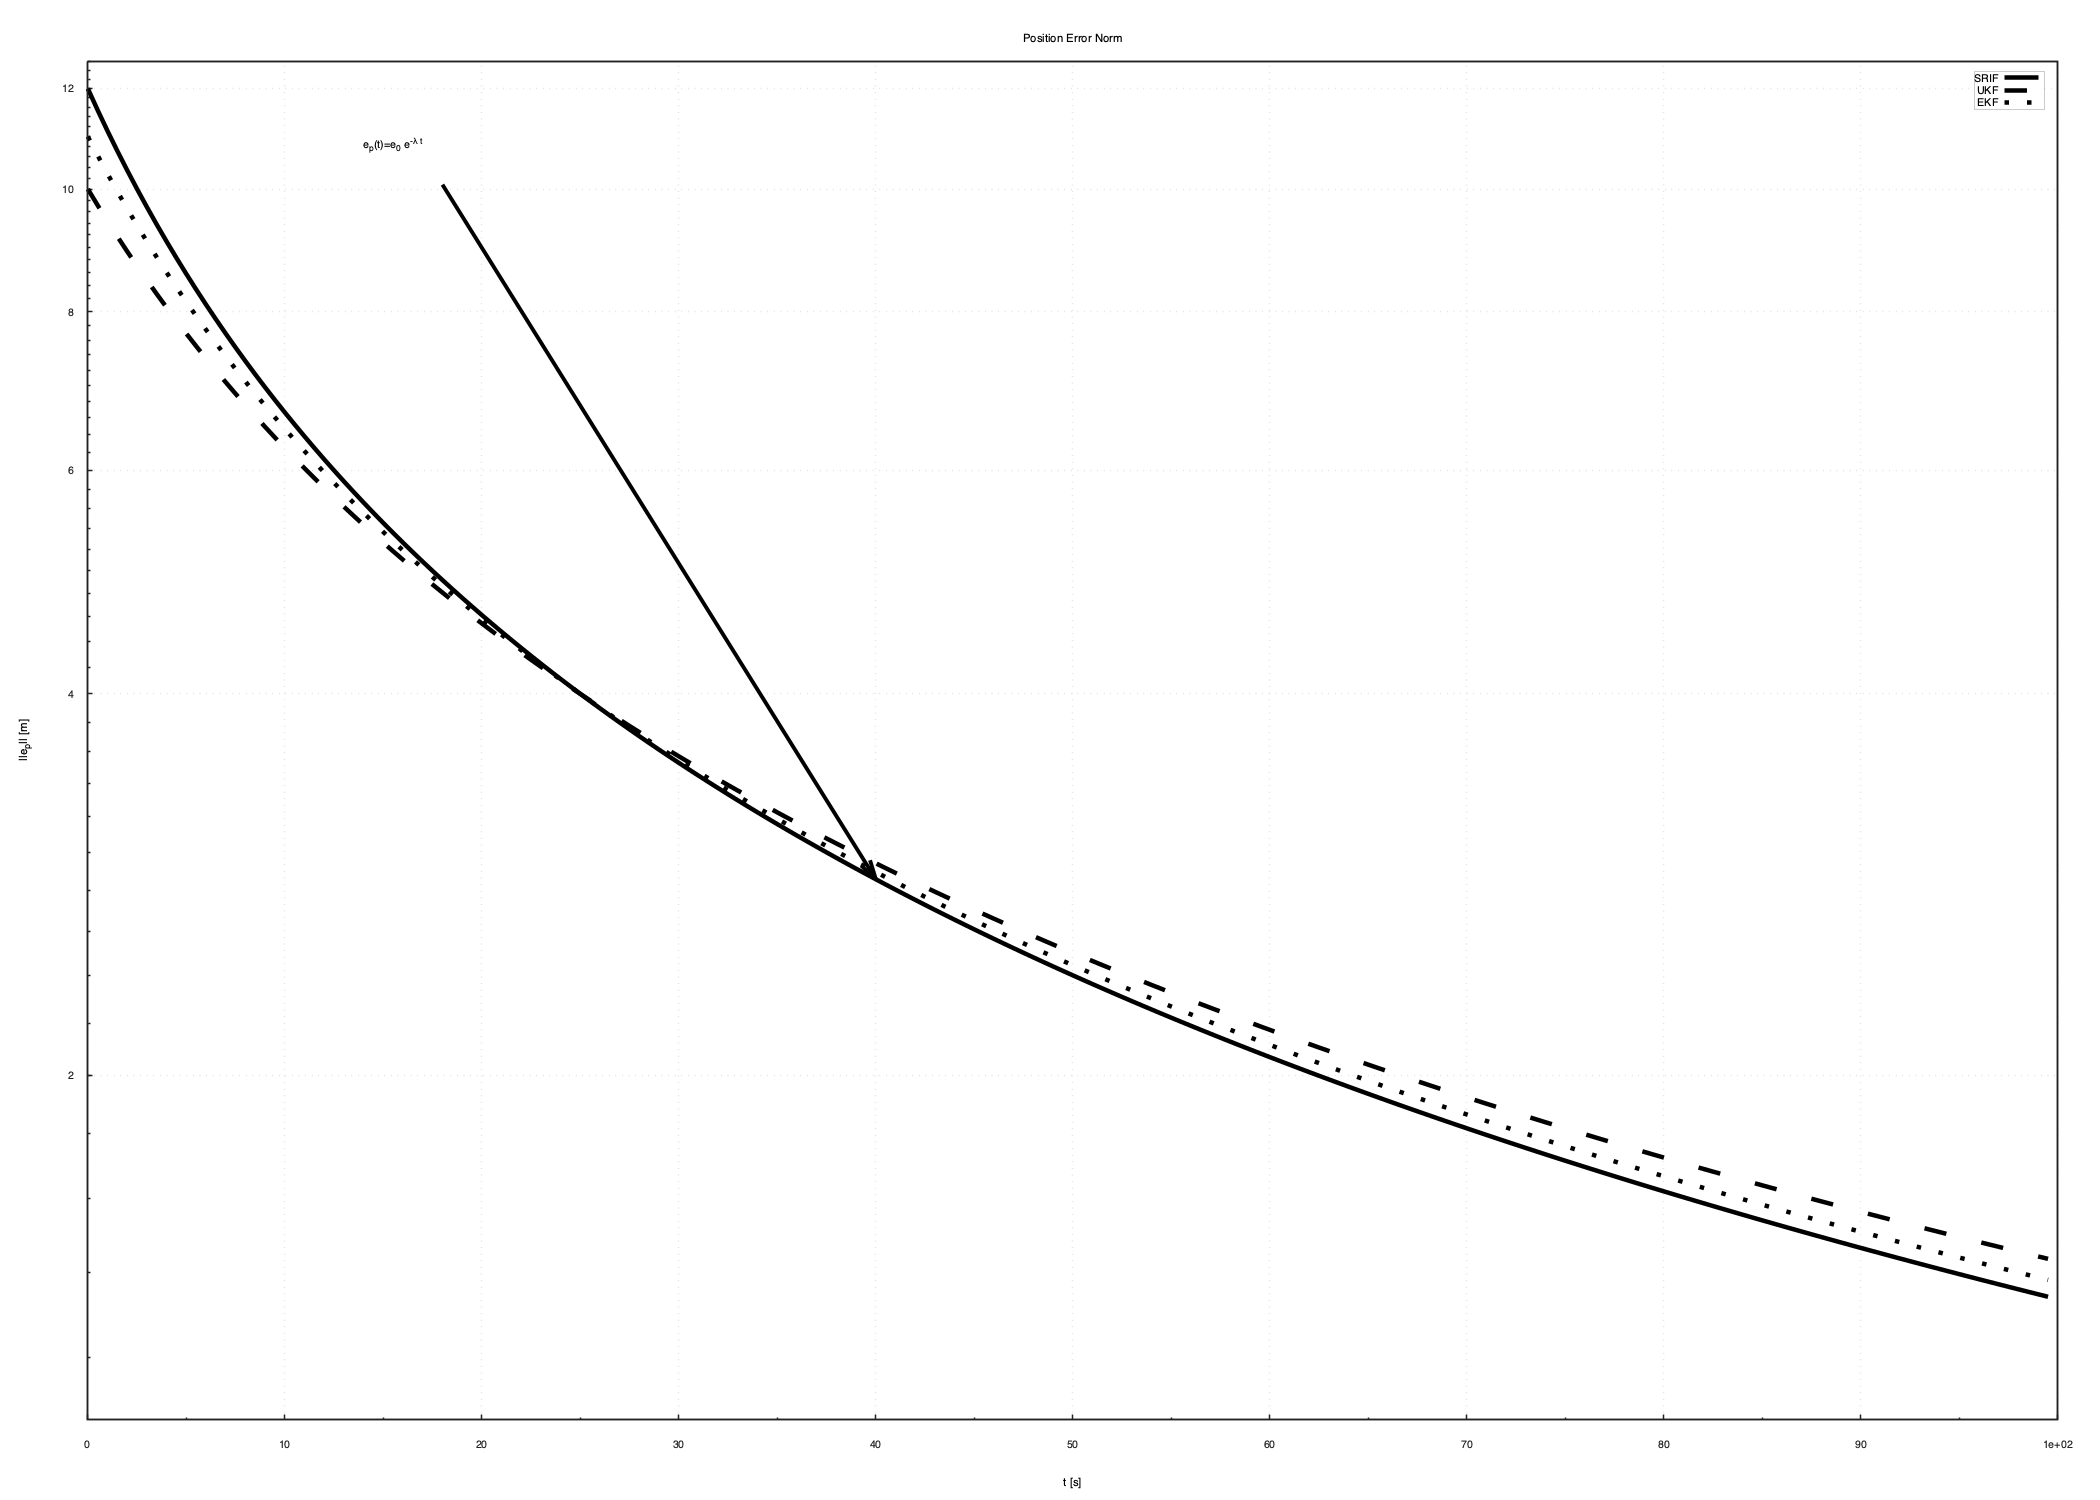
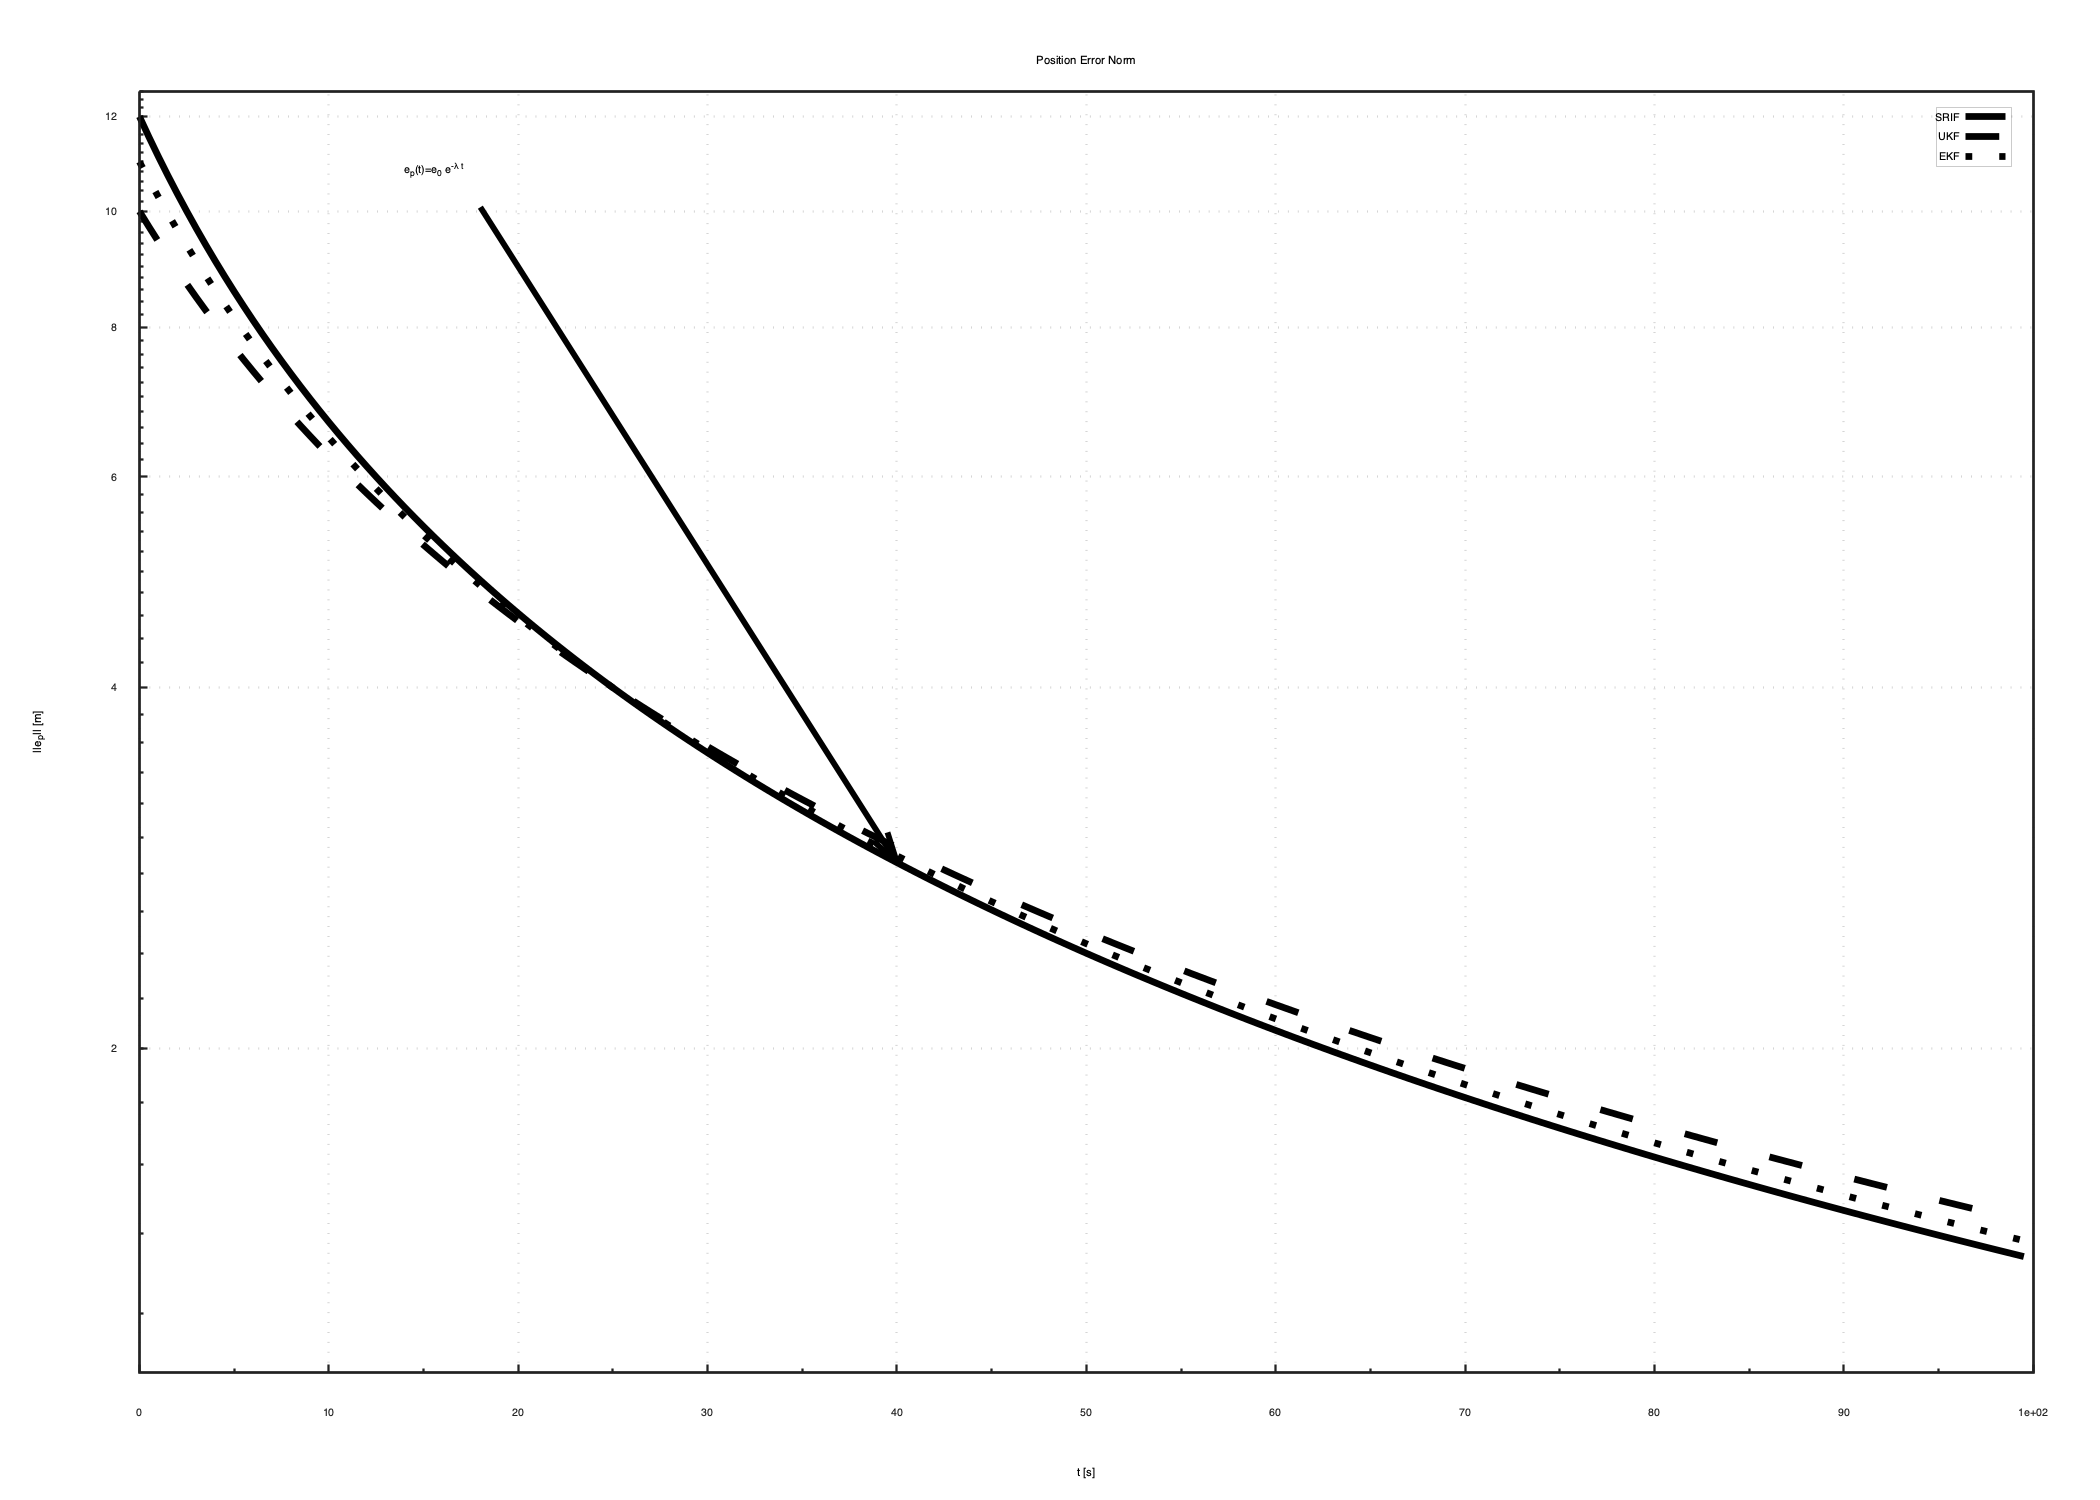
Increase 600 DPI README PNG typography scaling for legible GitHub display

diff --git a/src/gnuplot_backend.cpp b/src/gnuplot_backend.cpp
@@ -96,8 +96,8 @@ std::string terminal_for(OutputFormat format, const FigureSpec& spec) {
       constexpr double kPngDpi = 600.0;
       // pngcairo font/line scaling does not map 1:1 with pt at high raster DPI.
       // Use tuned multipliers for readable README/publication previews.
-      const double png_font_px = std::max(10.0, spec.style.font_pt * 2.2);
-      const double png_lw_px = std::max(1.5, lw * 2.0);
+      const double png_font_px = std::max(14.0, spec.style.font_pt * 3.5);
+      const double png_lw_px = std::max(2.0, lw * 3.0);
       os << "set terminal pngcairo size " << (spec.size.w * kPngDpi) << ","
          << (spec.size.h * kPngDpi)
          << " enhanced background rgb 'white' font '" << spec.style.font << ","

diff --git a/tests/gnuplot_backend_test.cpp b/tests/gnuplot_backend_test.cpp
@@ -63,7 +63,7 @@ int main() {
   assert(script.find("set multiplot layout 1,2") != std::string::npos);
   assert(script.find("set terminal pdfcairo") != std::string::npos);
   assert(script.find("set terminal pngcairo") != std::string::npos);
-  assert(script.find("font 'Times,18.700'") != std::string::npos);
+  assert(script.find("font 'Times,29.750'") != std::string::npos);
   assert(script.find("set monochrome") != std::string::npos);
   assert(script.find("dt 1") != std::string::npos);
   assert(script.find("plot") != std::string::npos);
